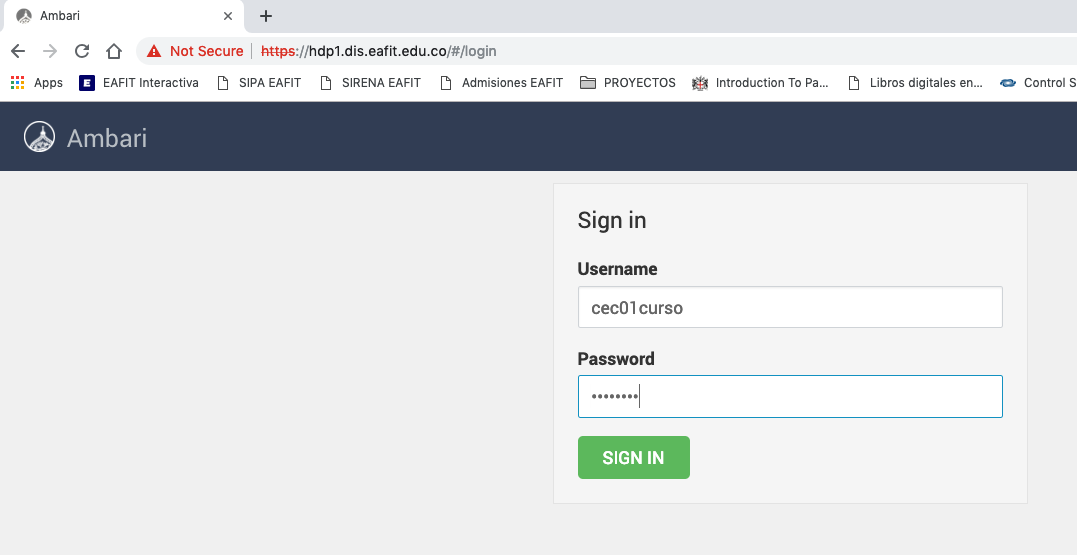
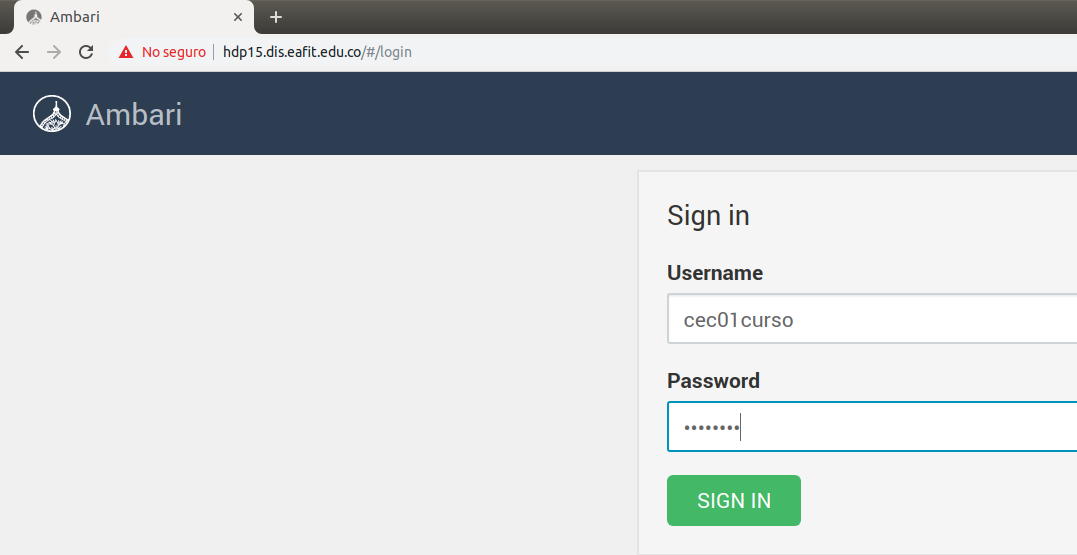
version 3

diff --git a/01-hdfs/mysql2hdfs.md b/01-hdfs/mysql2hdfs.md
@@ -1,6 +1,6 @@
 # Universidad EAFIT
-# Curso CEC Big Data, 20191
-# Profesor: Edwin Montoya M. – emontoya@eafit.edu.co
+# Curso CEC Big Data, 20192
+# Profesor: Alvaro Ospina S. – aeospinas@eafit.edu.co
 
 # Laboratorio HDFS - Mysql -> HDFS vía SQOOP
 
@@ -8,13 +8,12 @@
 
 Ambari Web
 
-    https://hdp1.dis.eafit.edu.co (sandbox)
-    https://hdp2.dis.eafit.edu.co (cluster)
+    https://hdp15.dis.eafit.edu.co (sandbox)
+
 
 Terminal:
 
-    https://hdp1shell.dis.eafit.edu.co (sandbox)
-    https://hdp2shell.dis.eafit.edu.co (cluster)
+    https://hdp15shell.dis.eafit.edu.co (sandbox)
 
 Usuarios:
 

diff --git a/01-hdfs/README.md b/01-hdfs/README.md
@@ -1,6 +1,6 @@
 # Universidad EAFIT
-# Curso CEC Big Data, 20191
-# Profesor: Edwin Montoya M. – emontoya@eafit.edu.co
+# Curso CEC Big Data, 20192
+# Profesor: Alvaro Ospina S. – aeospinas@eafit.edu.co
 
 # Laboratorio HDFS
 
@@ -8,13 +8,11 @@
 
 Ambari Web
 
-    https://hdp1.dis.eafit.edu.co (sandbox)
-    https://hdp2.dis.eafit.edu.co (cluster)
+    https://hdp15.dis.eafit.edu.co (sandbox)
 
 Terminal:
 
-    https://hdp1shell.dis.eafit.edu.co (sandbox)
-    https://hdp2shell.dis.eafit.edu.co (cluster)
+    https://hdp15shell.dis.eafit.edu.co (sandbox)
 
 Usuarios:
 

diff --git a/README.md b/README.md
@@ -1,18 +1,16 @@
 # Universidad EAFIT
-# Curso CEC Big Data, 20191
-# Profesor: Edwin Montoya M. – emontoya@eafit.edu.co
+# Curso CEC Big Data, 20192
+# Profesor: Alvaro Ospina S. – aeospinas@eafit.edu.co
 
 ## CONEXIÓN AL CLUSTER
 
 Ambari Web
 
-    https://hdp1.dis.eafit.edu.co (sandbox)
-    https://hdp2.dis.eafit.edu.co (cluster)
+    https://hdp15.dis.eafit.edu.co (sandbox)
 
 Terminal:
 
-    https://hdp1shell.dis.eafit.edu.co (sandbox)
-    https://hdp2shell.dis.eafit.edu.co (cluster)
+    https://hdp15shell.dis.eafit.edu.co (sandbox)
 
 Usuarios:
 
